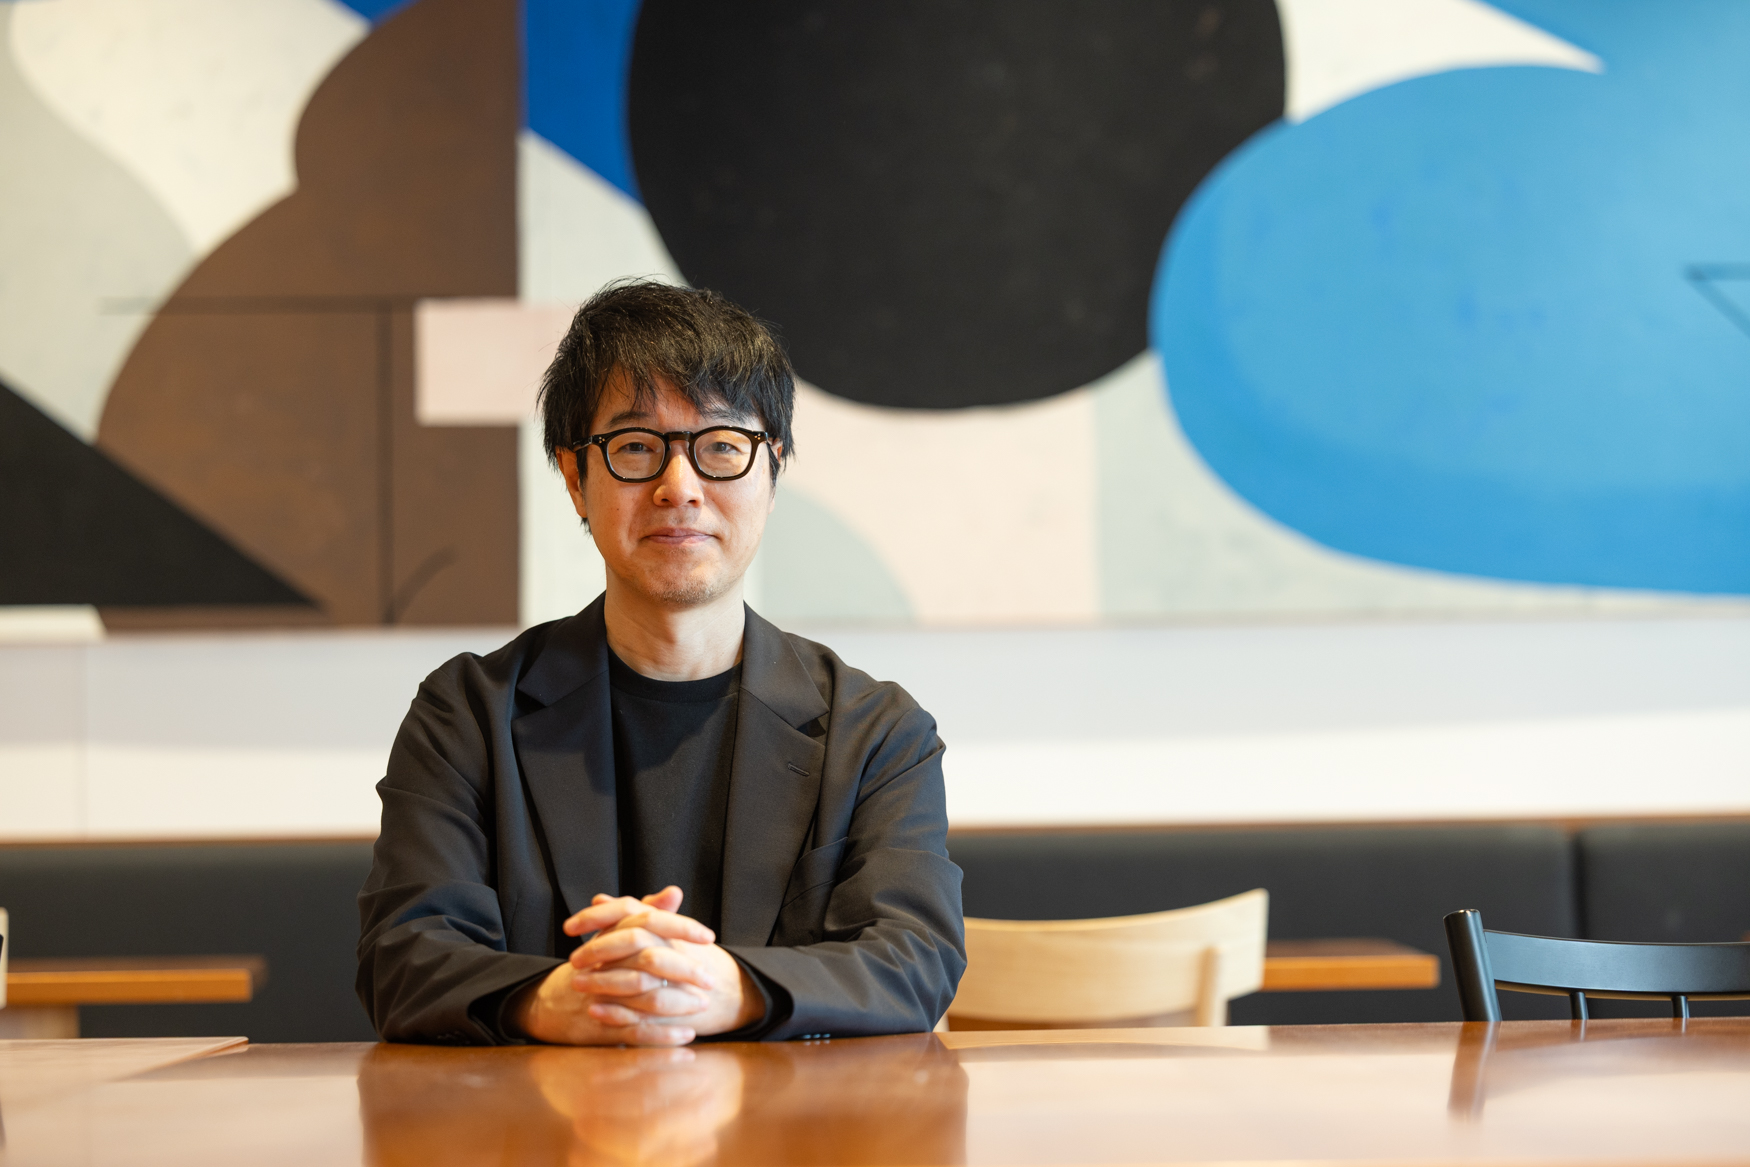
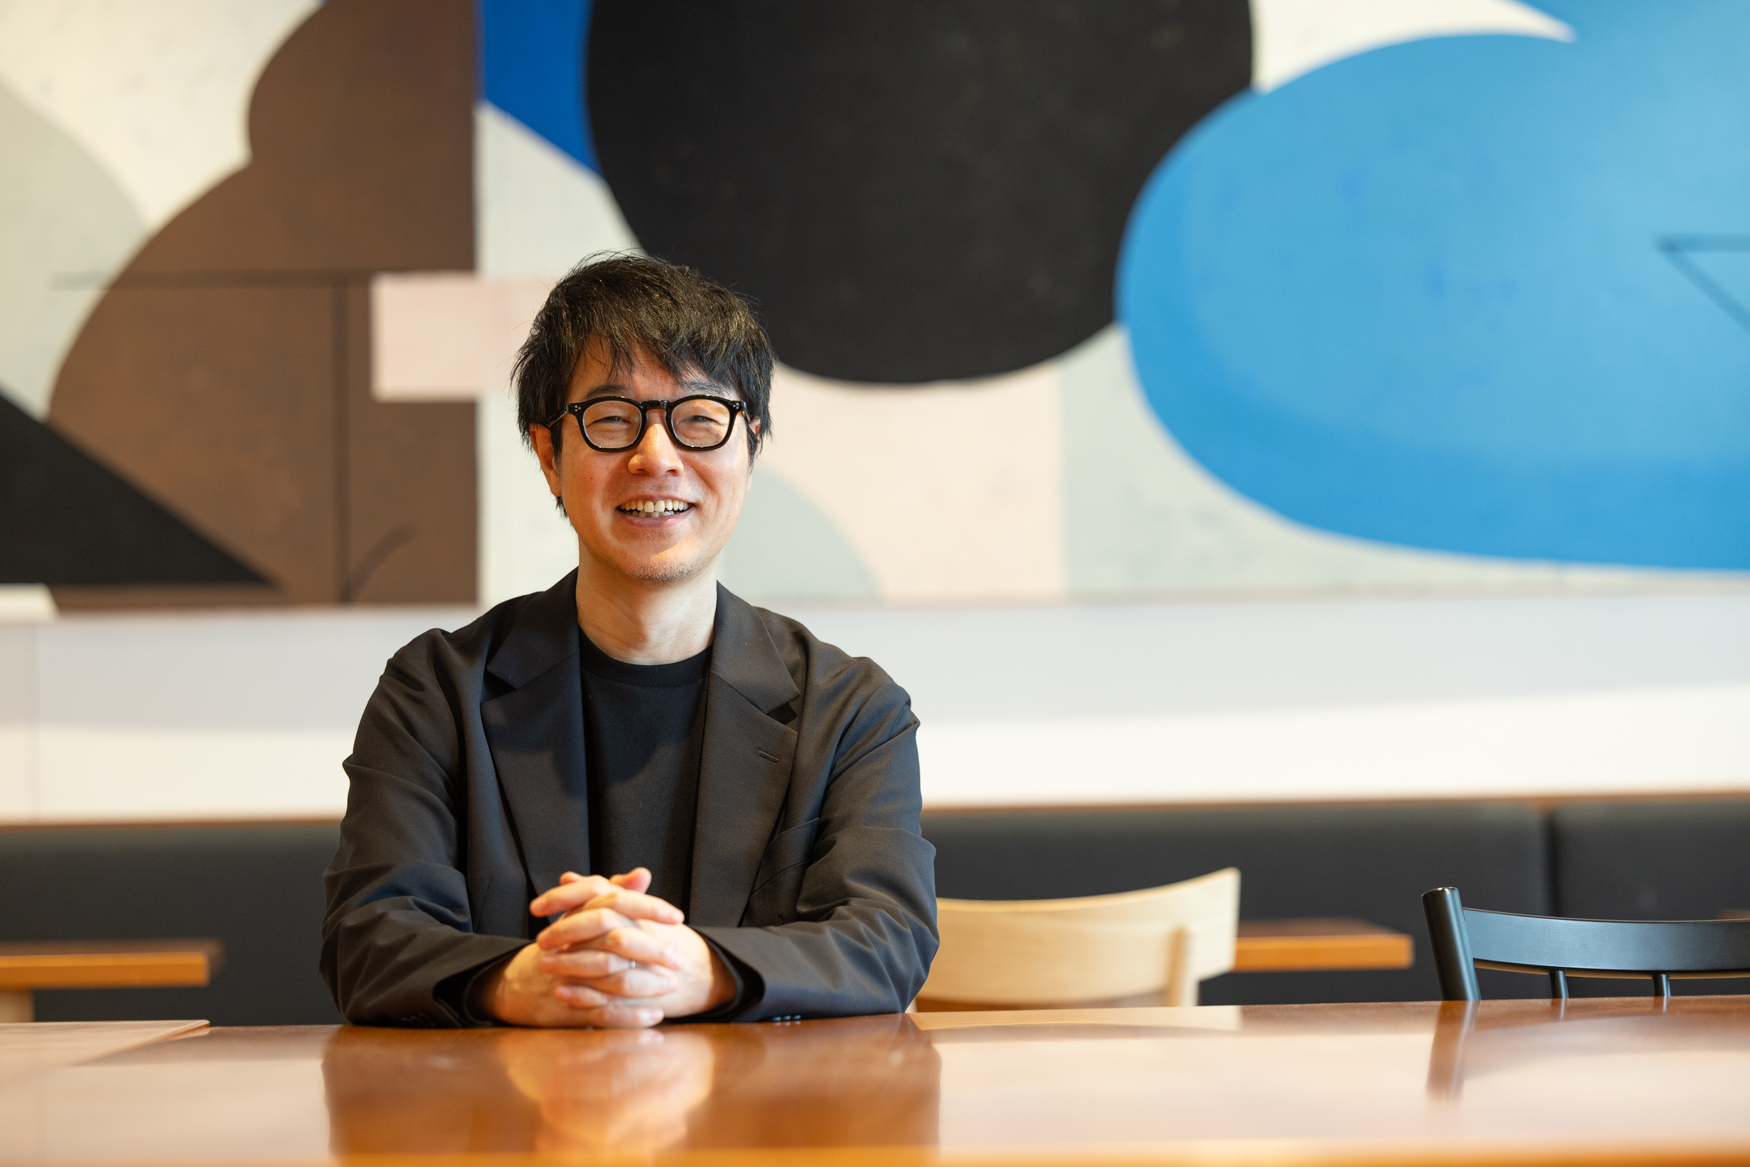
Complete English route and article thumbnails

diff --git a/en/index.html b/en/index.html
@@ -7,7 +7,7 @@
     <link rel="canonical" href="https://daisukewatanabejapan.github.io/english.html" />
     <title>Daisuke Watanabe | SB OAI Japan · AI Engineering</title>
     <script>
-      fetch('/index.html?v=20260808reflection', { cache: 'no-store' })
+      fetch('/index.html?v=20260811agilepress', { cache: 'no-store' })
         .then((response) => response.text())
         .then((html) => {
           const parsed = new DOMParser().parseFromString(html, 'text/html');
@@ -24,7 +24,7 @@
           document.documentElement.dataset.language = 'en';
 
           const translations = document.createElement('script');
-          translations.src = '/script.js?v=20260808reflection';
+          translations.src = '/script.js?v=20260811contact';
           document.body.appendChild(translations);
         });
     </script>
